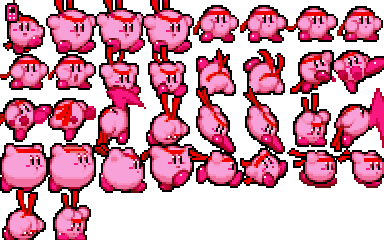
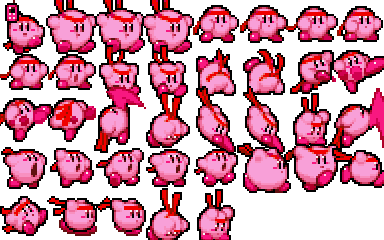
feat: update inhale animation to row 13 frames 8-12 (5 frames)

Changed region(s): [[0.0, 0.5833, 1.0, 1.0]]

diff --git a/src/client/renderers/FighterRenderer.ts b/src/client/renderers/FighterRenderer.ts
@@ -52,7 +52,7 @@ export class FighterRenderer {
       { key: 'kirby_fall', frames: ['fall_0', 'fall_1'], frameRate: 6, repeat: -1 },
       { key: 'kirby_light', frames: ['light_0', 'light_1', 'light_2', 'light_3'], frameRate: 15, repeat: 0 },
       { key: 'kirby_heavy', frames: ['heavy_0', 'heavy_1', 'heavy_2', 'heavy_3', 'heavy_4', 'heavy_5'], frameRate: 12, repeat: 0 },
-      { key: 'kirby_inhale', frames: ['inhale_0', 'inhale_1'], frameRate: 4, repeat: -1 },
+      { key: 'kirby_inhale', frames: ['inhale_0', 'inhale_1', 'inhale_2', 'inhale_3', 'inhale_4'], frameRate: 8, repeat: -1 },
       { key: 'kirby_capture', frames: ['capture_0', 'capture_1'], frameRate: 4, repeat: -1 },
       { key: 'kirby_hitstun', frames: ['hitstun_0', 'hitstun_1', 'hitstun_2', 'hitstun_3'], frameRate: 12, repeat: -1 },
       { key: 'kirby_dead', frames: ['dead_0', 'dead_1'], frameRate: 8, repeat: -1 },

diff --git a/scripts/build-game-sheet.py b/scripts/build-game-sheet.py
@@ -51,7 +51,7 @@ animations = {
         (7, 0), (7, 1), (7, 2), (7, 3), (7, 4), (7, 5),  # Kick sequence
     ],
     "inhale": [
-        (5, 2), (5, 3),  # Mouth open, sucking
+        (13, 8), (13, 9), (13, 10), (13, 11), (13, 12),  # Row 13 inhale/special
     ],
     "capture": [
         (15, 0), (15, 1),  # Puffed up holding someone
